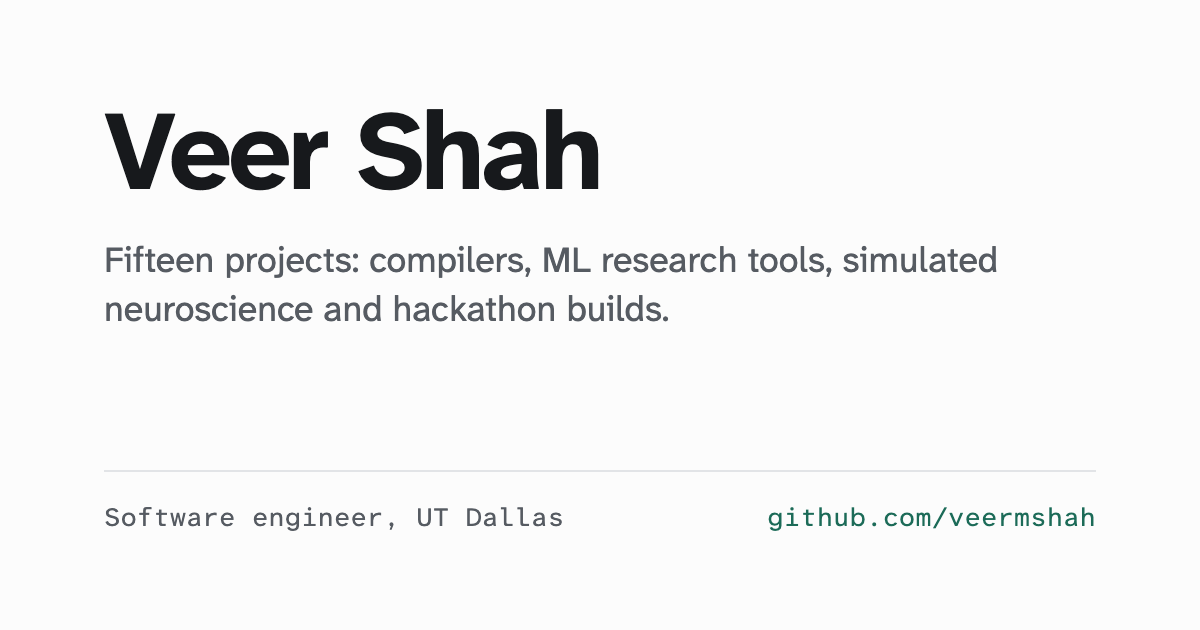
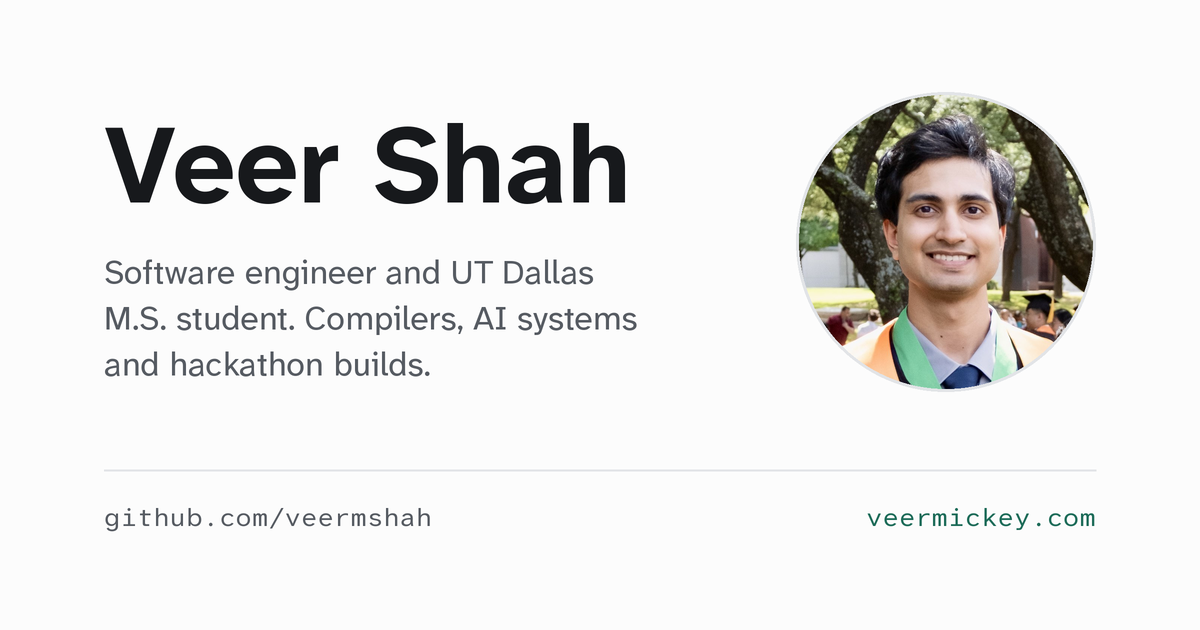
Add portrait: Person structured data and a new share image
- src/assets/portrait.jpg: 800x800 head-and-shoulders crop, metadata stripped
- Person JSON-LD gets an image; home meta description cut to 145 characters
- public/og.png re-rendered with the portrait and current copy (old card said fifteen projects)
- ProofSnap leads the featured carousel

diff --git a/scripts/og.html b/scripts/og.html
@@ -1,5 +1,5 @@
 <!doctype html>
-<!-- Source for public/og.png: screenshot this page at 1200x630 in any headless browser. -->
+<!-- Source for public/og.png: screenshot this page at 1200x630 in any headless browser. The portrait is src/assets/portrait.jpg. -->
 <html lang="en">
 <head>
 <meta charset="utf-8">
@@ -13,13 +13,19 @@
   p { margin: 28px 0 0; font-size: 36px; color: #565b62; max-width: 900px; line-height: 1.35; }
   .foot { display: flex; justify-content: space-between; align-items: baseline; border-top: 2px solid #e2e4e7; padding-top: 28px; font-family: 'AHM', monospace; font-size: 26px; color: #565b62; }
   .foot b { font-weight: 400; color: #1c6b58; }
+  .top { display: flex; justify-content: space-between; align-items: flex-start; gap: 48px; }
+  .top p { max-width: 560px; font-size: 34px; }
+  .portrait { width: 300px; height: 300px; border-radius: 50%; object-fit: cover; border: 2px solid #e2e4e7; flex: none; }
 </style>
 </head>
 <body>
-  <div>
-    <h1>Veer Shah</h1>
-    <p>Selected projects: compilers, ML research tools, simulated neuroscience and hackathon builds.</p>
+  <div class="top">
+    <div>
+      <h1>Veer Shah</h1>
+      <p>Software engineer and UT Dallas M.S. student. Compilers, AI systems and hackathon builds.</p>
+    </div>
+    <img class="portrait" src="../src/assets/portrait.jpg" alt="">
   </div>
-  <div class="foot"><span>Software engineer, UT Dallas</span><b>github.com/veermshah</b></div>
+  <div class="foot"><span>github.com/veermshah</span><b>veermickey.com</b></div>
 </body>
 </html>

diff --git a/src/data/profile.ts b/src/data/profile.ts
@@ -12,7 +12,7 @@ export const profile = {
   alternateNames: ['Veer Mickey Shah', 'Veer Mickey'],
   /** Used for <meta name="description"> on the home page. */
   description:
-    'Veer Shah (Veer Mickey Shah) is a software engineer, UT Dallas computer science master’s student and director of HackUTD, joining Capital One full time in 2027 after internships there and at Fidelity in AWS distributed systems and retrieval.',
+    'Veer Shah (Veer Mickey Shah): software engineer, UT Dallas computer science master’s student and HackUTD director, joining Capital One full time in 2027.',
   links: [
     { label: 'GitHub', href: 'https://github.com/veermshah' },
     { label: 'Devpost', href: 'https://devpost.com/veermickey' },
